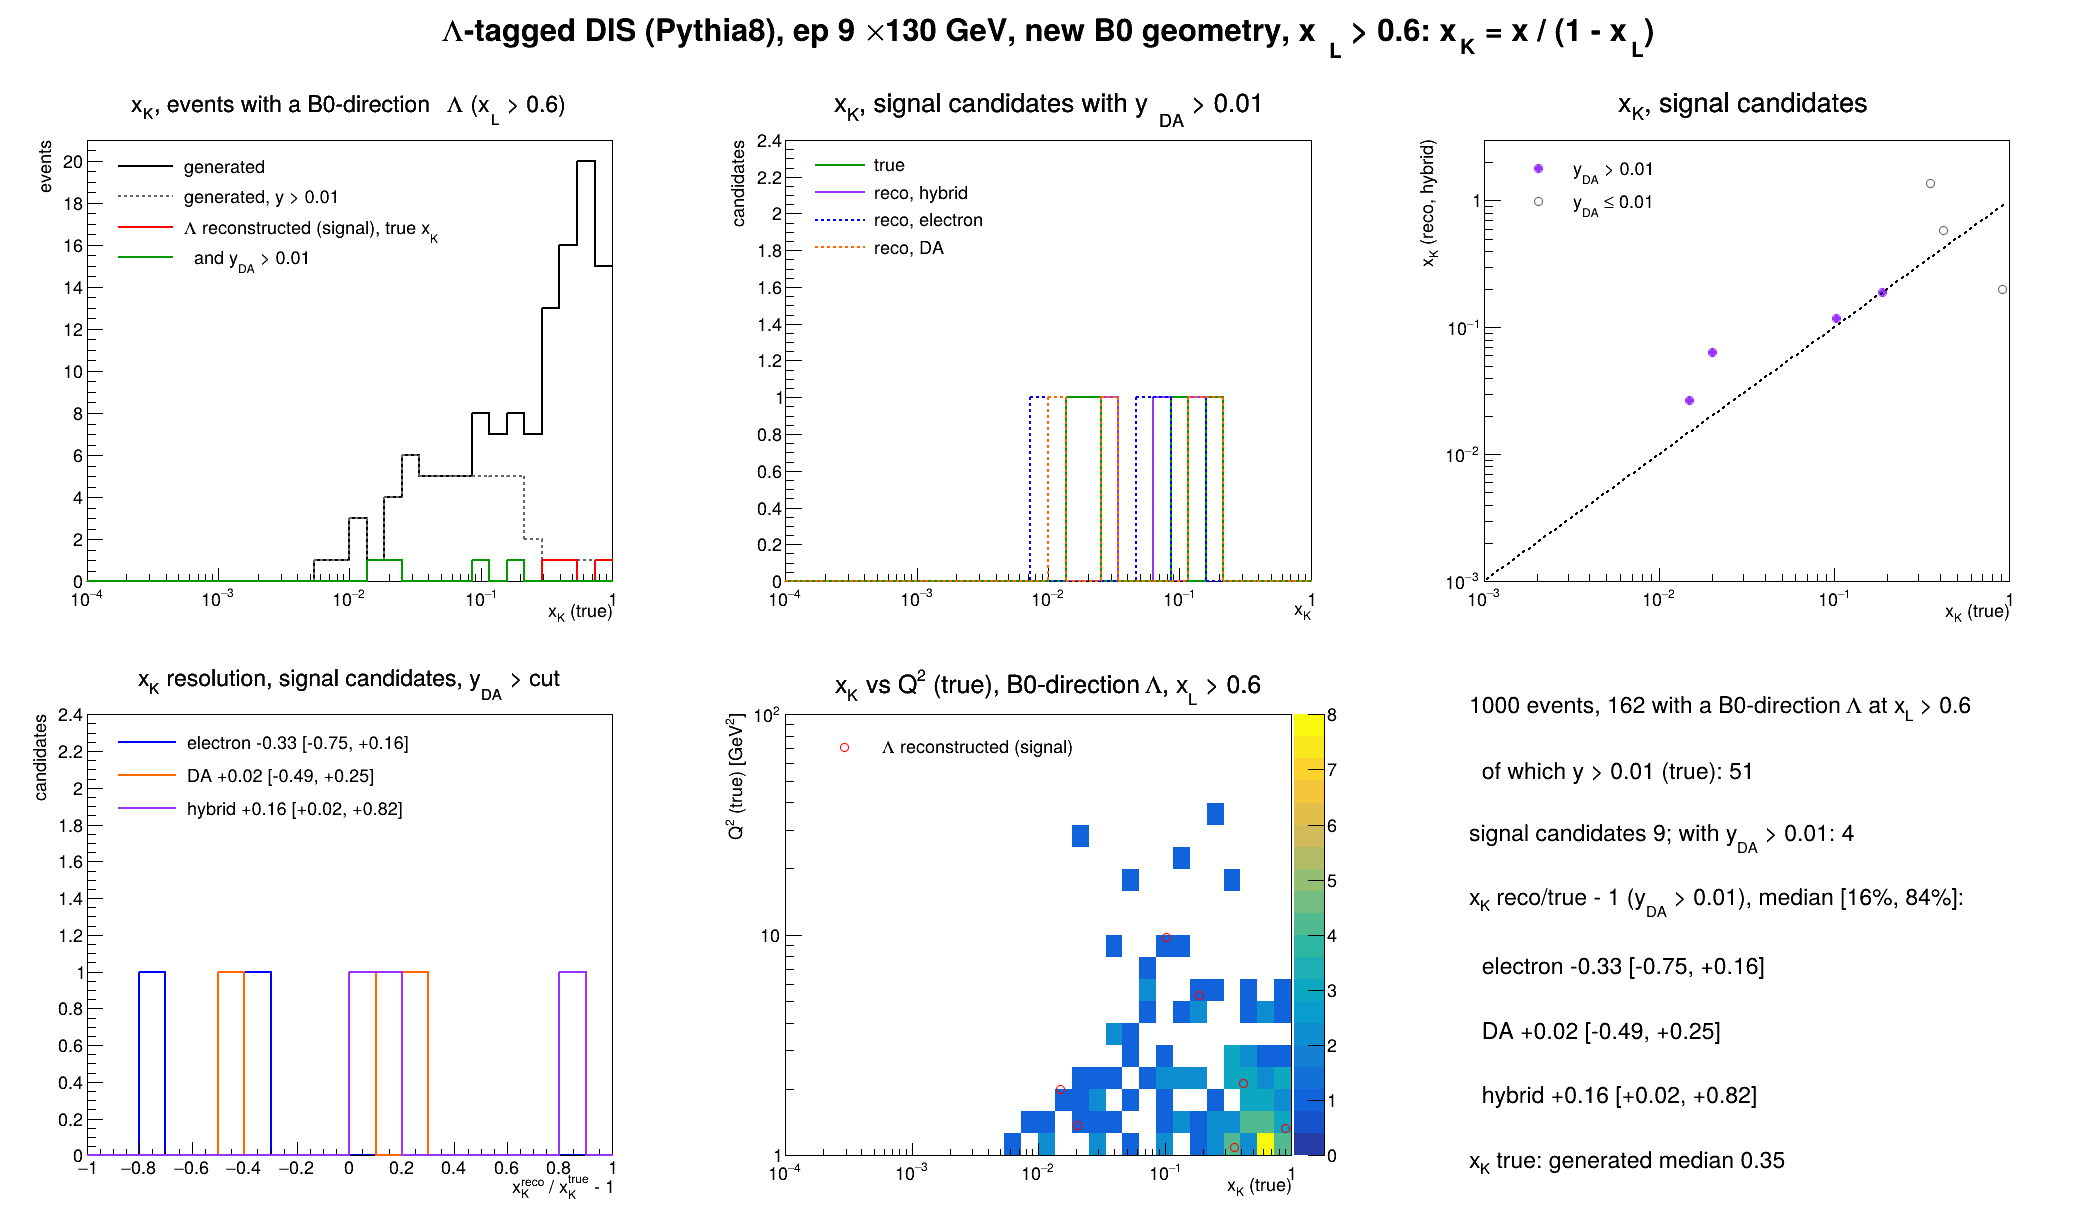
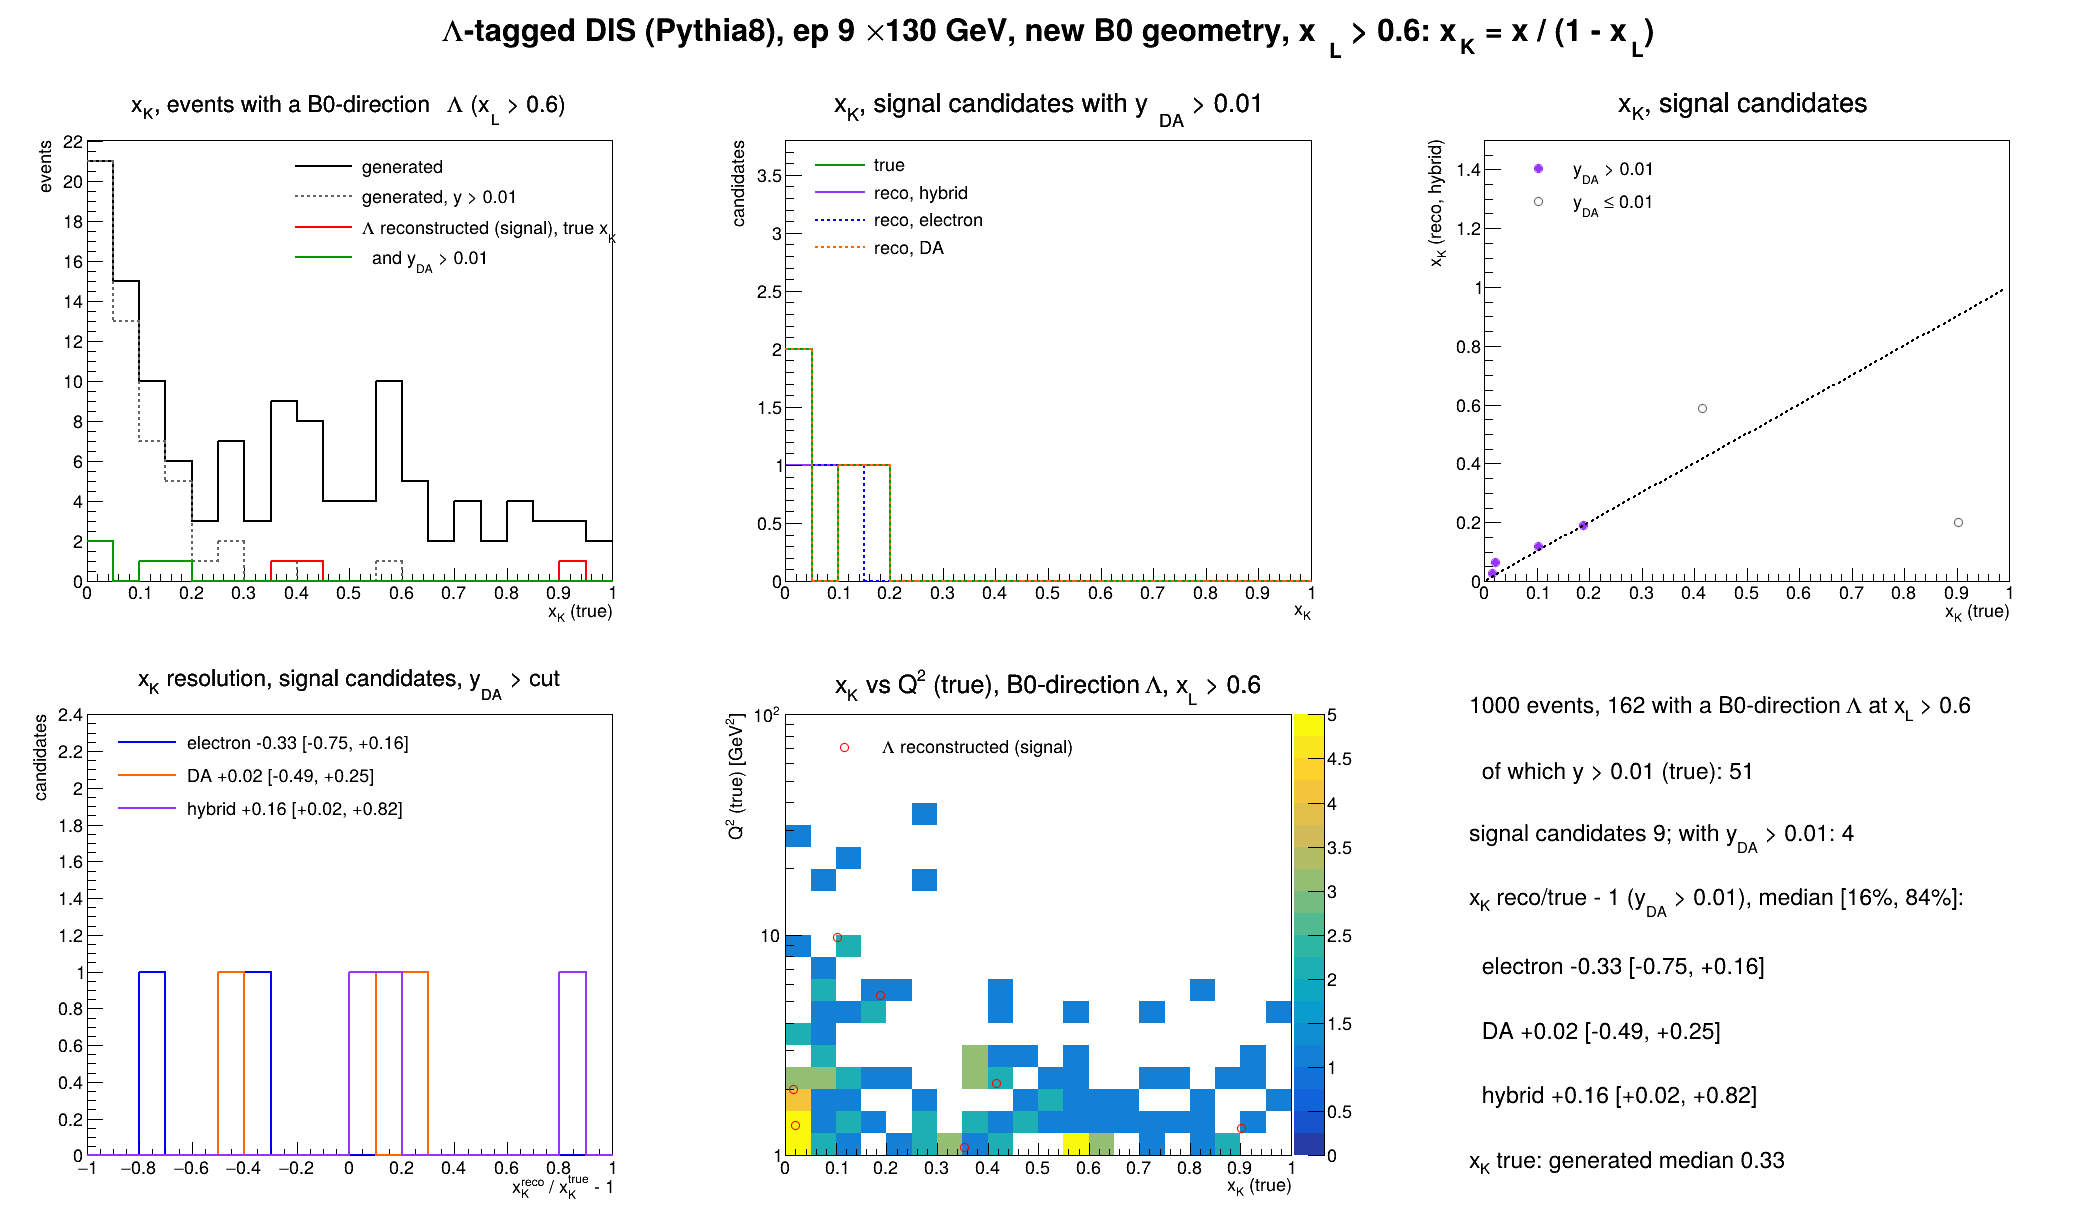
kaon_kinematics.C: linear x_K axes

diff --git a/macros/kaon/kaon_kinematics.C b/macros/kaon/kaon_kinematics.C
@@ -126,16 +126,16 @@ void kaon_kinematics(const char* files = "/eos/user/g/gninio/eic/lambda_dis_9x13
   TH1D hdQ("hdQ", "Q^{2}, electron method, all events;Q^{2}_{reco} / Q^{2}_{true} - 1;events", 50, -0.5, 0.5), hdQe("hdQe", "", 50, -0.5, 0.5);
   TH2D hdXyE("hdXyE", "x, electron method, all events;log_{10} y (true);x_{reco} / x_{true} - 1", 20, -4, 0, 50, -1, 1);
   TH2D hdXyD("hdXyD", "x, double-angle method, all events;log_{10} y (true);x_{reco} / x_{true} - 1", 20, -4, 0, 50, -1, 1);
-  TH1D hXK("hXK", "x_{K} = x / (1 - x_{L});x_{K};events", 30, bx.data());
-  TH1D hXKR("hXKR", "", 30, bx.data()), hXKRS("hXKRS", "", 30, bx.data());
+  TH1D hXK("hXK", "x_{K} = x / (1 - x_{L});x_{K};events", 20, 0., 1.);
+  TH1D hXKR("hXKR", "", 20, 0., 1.), hXKRS("hXKRS", "", 20, 0., 1.);
   // x_K figure
-  TH1D hXKg("hXKg", "x_{K}, events with a B0-direction #Lambda (x_{L} > 0.6);x_{K} (true);events", 30, bx.data());
-  TH1D hXKgY("hXKgY", "", 30, bx.data()), hXKs("hXKs", "", 30, bx.data()), hXKsC("hXKsC", "", 30, bx.data());
-  TH1D hXKrH("hXKrH", "x_{K}, signal candidates with y_{DA} > cut;x_{K};candidates", 30, bx.data());
-  TH1D hXKrE("hXKrE", "", 30, bx.data()), hXKrD("hXKrD", "", 30, bx.data()), hXKtC("hXKtC", "", 30, bx.data());
+  TH1D hXKg("hXKg", "x_{K}, events with a B0-direction #Lambda (x_{L} > 0.6);x_{K} (true);events", 20, 0., 1.);
+  TH1D hXKgY("hXKgY", "", 20, 0., 1.), hXKs("hXKs", "", 20, 0., 1.), hXKsC("hXKsC", "", 20, 0., 1.);
+  TH1D hXKrH("hXKrH", "x_{K}, signal candidates with y_{DA} > cut;x_{K};candidates", 20, 0., 1.);
+  TH1D hXKrE("hXKrE", "", 20, 0., 1.), hXKrD("hXKrD", "", 20, 0., 1.), hXKtC("hXKtC", "", 20, 0., 1.);
   TH1D hdXKm[3] = {TH1D("hdXKm0", "x_{K} resolution, signal candidates, y_{DA} > cut;x_{K}^{reco} / x_{K}^{true} - 1;candidates", 20, -1, 1),
                    TH1D("hdXKm1", "", 20, -1, 1), TH1D("hdXKm2", "", 20, -1, 1)};   // electron, DA, hybrid
-  TH2D hXKQ("hXKQ", "x_{K} vs Q^{2} (true), B0-direction #Lambda, x_{L} > 0.6;x_{K} (true);Q^{2} (true) [GeV^{2}]", 30, bx.data(), 20, bq.data());
+  TH2D hXKQ("hXKQ", "x_{K} vs Q^{2} (true), B0-direction #Lambda, x_{L} > 0.6;x_{K} (true);Q^{2} (true) [GeV^{2}]", 20, 0., 1., 20, bq.data());
   std::vector<double> gT, gR, gTf, gRf, cXK, cQ2;   // reco vs true (pass / fail the y cut); candidate (x_K, Q2) true
   TH1D hdXKh("hdXKh", TString::Format("x_{K}, #Lambda candidates (signal);x_{K}^{reco} / x_{K}^{true} - 1;candidates"), 20, -1, 1), hdXKe("hdXKe", "", 20, -1, 1);
 
@@ -315,7 +315,7 @@ void kaon_kinematics(const char* files = "/eos/user/g/gninio/eic/lambda_dis_9x13
   hY.SetMinimum(0); hY.Draw("hist"); hYR.Draw("hist same");
   TLegend l2(0.14, 0.75, 0.6, 0.88); l2.SetBorderSize(0);
   l2.AddEntry(&hY, "generated", "l"); l2.AddEntry(&hYR, "#Lambda candidate reconstructed", "l"); l2.Draw();
-  pm.cd(3); gPad->SetLogx();
+  pm.cd(3);
   hXK.SetLineColor(kBlack); hXK.SetLineWidth(2); hXKR.SetLineColor(kRed); hXKR.SetLineWidth(2); hXKRS.SetLineColor(kGreen + 2); hXKRS.SetLineWidth(2);
   hXK.SetMinimum(0); hXK.Draw("hist"); hXKR.Draw("hist same"); hXKRS.Draw("hist same");
   TLegend l3(0.14, 0.72, 0.62, 0.88); l3.SetBorderSize(0);
@@ -352,15 +352,15 @@ void kaon_kinematics(const char* files = "/eos/user/g/gninio/eic/lambda_dis_9x13
   TPad p2("p2", "", 0, 0, 1, 0.94); p2.Draw(); p2.Divide(3, 2);
   auto LineH = [](TH1D& h, int col, int sty = 1) { h.SetLineColor(col); h.SetLineWidth(2); h.SetLineStyle(sty); };
   // 1: generated and reconstructed (at true x_K)
-  p2.cd(1); gPad->SetLogx();
+  p2.cd(1);
   LineH(hXKg, kBlack); LineH(hXKgY, kGray + 2, 2); LineH(hXKs, kRed); LineH(hXKsC, kGreen + 2);
   hXKg.SetMinimum(0); hXKg.Draw("hist"); hXKgY.Draw("hist same"); hXKs.Draw("hist same"); hXKsC.Draw("hist same");
-  TLegend k1(0.13, 0.66, 0.6, 0.88); k1.SetBorderSize(0); k1.SetTextSize(0.035);
+  TLegend k1(0.4, 0.66, 0.88, 0.88); k1.SetBorderSize(0); k1.SetTextSize(0.035);
   k1.AddEntry(&hXKg, "generated", "l"); k1.AddEntry(&hXKgY, TString::Format("generated, y > %.2g", yMin), "l");
   k1.AddEntry(&hXKs, "#Lambda reconstructed (signal), true x_{K}", "l");
   k1.AddEntry(&hXKsC, TString::Format("  and y_{DA} > %.2g", yMin), "l"); k1.Draw();
   // 2: reconstructed x_K per method vs true, same candidates
-  p2.cd(2); gPad->SetLogx();
+  p2.cd(2);
   LineH(hXKtC, kGreen + 2); LineH(hXKrH, kViolet + 1); LineH(hXKrE, kBlue, 2); LineH(hXKrD, kOrange + 7, 2);
   hXKrH.SetMaximum(1.4 * std::max({hXKtC.GetMaximum(), hXKrH.GetMaximum(), hXKrE.GetMaximum(), hXKrD.GetMaximum()}) + 1);
   hXKrH.SetTitle(TString::Format("x_{K}, signal candidates with y_{DA} > %.2g;x_{K};candidates", yMin));
@@ -368,12 +368,12 @@ void kaon_kinematics(const char* files = "/eos/user/g/gninio/eic/lambda_dis_9x13
   TLegend k2(0.13, 0.68, 0.55, 0.88); k2.SetBorderSize(0); k2.SetTextSize(0.035);
   k2.AddEntry(&hXKtC, "true", "l"); k2.AddEntry(&hXKrH, "reco, hybrid", "l"); k2.AddEntry(&hXKrE, "reco, electron", "l"); k2.AddEntry(&hXKrD, "reco, DA", "l"); k2.Draw();
   // 3: reco vs true, event by event
-  p2.cd(3); gPad->SetLogx(); gPad->SetLogy();
-  TH2D fr("fr", "x_{K}, signal candidates;x_{K} (true);x_{K} (reco, hybrid)", 10, 1e-3, 1, 10, 1e-3, 3); fr.SetStats(0); fr.Draw();
+  p2.cd(3);
+  TH2D fr("fr", "x_{K}, signal candidates;x_{K} (true);x_{K} (reco, hybrid)", 10, 0, 1, 10, 0, 1.5); fr.SetStats(0); fr.Draw();
   TGraph g1(gT.size(), gT.data(), gR.data()), g2(gTf.size(), gTf.data(), gRf.data());
   g1.SetMarkerStyle(20); g1.SetMarkerColor(kViolet + 1); g2.SetMarkerStyle(24); g2.SetMarkerColor(kGray + 2);
   if (g2.GetN()) g2.Draw("P same"); if (g1.GetN()) g1.Draw("P same");
-  TF1 diag("diag", "x", 1e-3, 1); diag.SetLineColor(kBlack); diag.SetLineStyle(2); diag.Draw("same");
+  TF1 diag("diag", "x", 0, 1); diag.SetLineColor(kBlack); diag.SetLineStyle(2); diag.Draw("same");
   TLegend k3(0.13, 0.76, 0.55, 0.88); k3.SetBorderSize(0); k3.SetTextSize(0.035);
   k3.AddEntry(&g1, TString::Format("y_{DA} > %.2g", yMin), "p"); k3.AddEntry(&g2, TString::Format("y_{DA} #leq %.2g", yMin), "p"); k3.Draw();
   // 4: resolution per method
@@ -385,7 +385,7 @@ void kaon_kinematics(const char* files = "/eos/user/g/gninio/eic/lambda_dis_9x13
   k4.AddEntry(&hdXKm[0], "electron " + Spread(dXKcut[kE]), "l"); k4.AddEntry(&hdXKm[1], "DA " + Spread(dXKcut[kDA]), "l");
   k4.AddEntry(&hdXKm[2], "hybrid " + Spread(dXKcut[kHyb]), "l"); k4.Draw();
   // 5: x_K vs Q2 (true) with the reconstructed candidates
-  p2.cd(5); gPad->SetLogx(); gPad->SetLogy(); gPad->SetRightMargin(0.13);
+  p2.cd(5); gPad->SetLogy(); gPad->SetRightMargin(0.13);
   hXKQ.SetStats(0); hXKQ.Draw("colz");
   TGraph g3(cXK.size(), cXK.data(), cQ2.data()); g3.SetMarkerStyle(24); g3.SetMarkerColor(kRed); if (g3.GetN()) g3.Draw("P same");
   TLegend k5(0.13, 0.8, 0.6, 0.88); k5.SetBorderSize(0); k5.SetTextSize(0.035); k5.AddEntry(&g3, "#Lambda reconstructed (signal)", "p"); k5.Draw();
